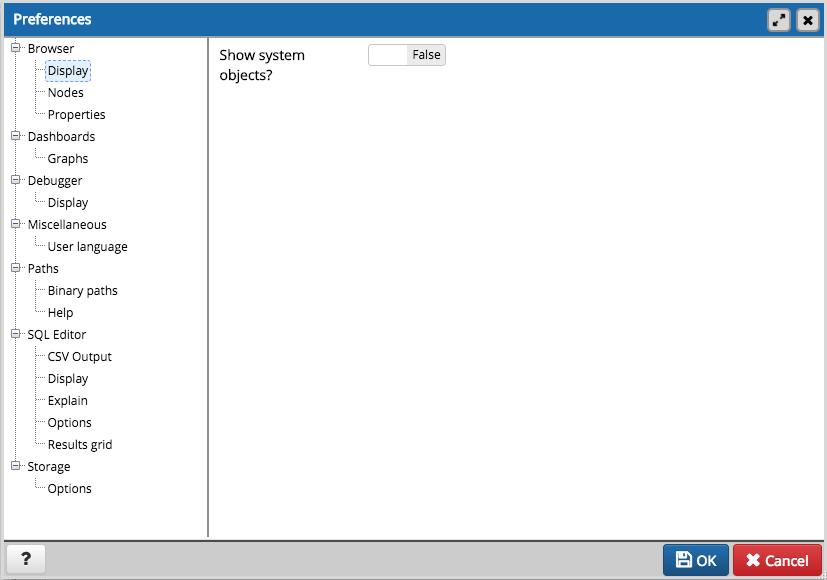
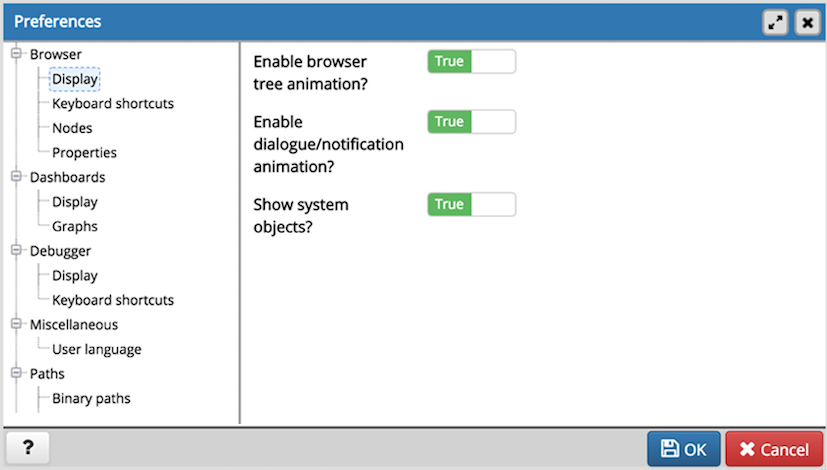
Add the ability to enable/disable UI animations. Fixes #1978

Changed region(s): [[0.0, 0.0, 1.0, 1.0], [0.5139, 0.3872, 0.6046, 0.4766], [0.5139, 0.2085, 0.6046, 0.2979]]

diff --git a/web/regression/javascript/browser/modify_animation_spec.js b/web/regression/javascript/browser/modify_animation_spec.js
@@ -1,0 +1,94 @@
+/////////////////////////////////////////////////////////////
+//
+// pgAdmin 4 - PostgreSQL Tools
+//
+// Copyright (C) 2013 - 2018, The pgAdmin Development Team
+// This software is released under the PostgreSQL Licence
+//
+//////////////////////////////////////////////////////////////
+
+import $ from 'jquery'
+import modifyAnimation from 'sources/modify_animation'
+
+
+describe('modifyAnimation', function () {
+  let pgBrowser;
+  let dummyElement;
+
+  beforeEach(() => {
+    pgBrowser = jasmine.createSpyObj('pgBrowser', ['get_preference', 'tree'])
+    pgBrowser.tree = jasmine.createSpyObj('tree', ['options']);
+    pgBrowser.tree.options.and.returnValue({
+          show: {},
+          hide: {},
+          view: {},
+    });
+    dummyElement = document.createElement('link');
+    spyOn($.fn, 'find').and.returnValue($(dummyElement));
+    spyOn($.fn, 'removeAttr');
+    spyOn($.fn, 'attr');
+  });
+
+  describe('When browser tree animation is disabled', () => {
+    beforeEach(() => {
+      pgBrowser.get_preference.and.returnValue({value: false});
+      modifyAnimation.modify_acitree_animation(pgBrowser);
+    });
+    it('tree options to animate should be disabled', function() {
+      expect(pgBrowser.get_preference).toHaveBeenCalled();
+      expect(pgBrowser.tree.options).toHaveBeenCalledTimes(4);
+      expect(pgBrowser.tree.options).toHaveBeenCalledWith({
+        animateRoot: false,
+        unanimated: true,
+        show: {duration: 0},
+        hide: {duration: 0},
+        view: {duration: 0},
+      });
+    });
+  });
+
+  describe('When browser tree animation is enabled', () => {
+    beforeEach(() => {
+      pgBrowser.get_preference.and.returnValue({value: true});
+      modifyAnimation.modify_acitree_animation(pgBrowser);
+    });
+    it('tree options to animate should be enabled', function() {
+      expect(pgBrowser.get_preference).toHaveBeenCalled();
+      expect(pgBrowser.tree.options).toHaveBeenCalledTimes(4);
+      expect(pgBrowser.tree.options).toHaveBeenCalledWith({
+        animateRoot: true,
+        unanimated: false,
+        show: {duration: 75},
+        hide: {duration: 75},
+        view: {duration: 75},
+      });
+    });
+  });
+
+  describe('When alertify animation is disabled', () => {
+    beforeEach(() => {
+      pgBrowser.get_preference.and.returnValue({value: false});
+      modifyAnimation.modify_alertify_animation(pgBrowser);
+
+    });
+    it('alertify disalogue/notification animation should be disabled', function() {
+      expect(pgBrowser.get_preference).toHaveBeenCalled();
+      expect($.fn.find).toHaveBeenCalled();
+      expect($.fn.removeAttr).toHaveBeenCalledWith('disabled', 'disabled');
+    });
+  });
+
+  describe('When alertify animation is enabled', () => {
+    beforeEach(() => {
+      pgBrowser.get_preference.and.returnValue({value: true});
+      modifyAnimation.modify_alertify_animation(pgBrowser);
+    });
+    it('alertify disalogue/notification animation should be enabled', function() {
+      expect(pgBrowser.get_preference).toHaveBeenCalled();
+      expect($.fn.find).toHaveBeenCalled();
+      expect($.fn.attr).toHaveBeenCalledWith('disabled', 'disabled');
+    });
+  });
+
+});
+

diff --git a/web/pgadmin/static/js/modify_animation.js b/web/pgadmin/static/js/modify_animation.js
@@ -1,0 +1,57 @@
+//////////////////////////////////////////////////////////////////////////
+//
+// pgAdmin 4 - PostgreSQL Tools
+//
+// Copyright (C) 2013 - 2018, The pgAdmin Development Team
+// This software is released under the PostgreSQL Licence
+//
+//////////////////////////////////////////////////////////////////////////
+
+import $ from 'jquery';
+import _ from 'underscore';
+
+function modify_acitree_animation(pgBrowser, tree) {
+  if (_.isUndefined(tree)) {
+    tree = pgBrowser.tree;
+  }
+  var enable_acitree_animation = pgBrowser.get_preference('browser',
+    'enable_acitree_animation').value;
+  if(enable_acitree_animation == true) {
+    tree.options({
+      animateRoot: true,
+      unanimated: false,
+      show: _.extend(tree.options().show, {duration: 75}),
+      hide: _.extend(tree.options().hide, {duration: 75}),
+      view: _.extend(tree.options().view, {duration: 75}),
+    });
+  } else {
+    tree.options({
+      animateRoot: false,
+      unanimated: true,
+      show: _.extend(tree.options().show, {duration: 0}),
+      hide: _.extend(tree.options().hide, {duration: 0}),
+      view: _.extend(tree.options().view, {duration: 0}),
+    });
+  }
+}
+
+function modify_alertify_animation(pgBrowser) {
+  var enable_alertify_animation = pgBrowser.get_preference('browser',
+    'enable_alertify_animation').value;
+  if(enable_alertify_animation == true) {
+    $(document).find('link#alertify-no-animation').attr('disabled', 'disabled');
+    _.each(document.getElementsByTagName('iframe'), function(frame){
+      $(frame.contentDocument).find('link#alertify-no-animation').attr('disabled', 'disabled');
+    });
+  } else {
+    $(document).find('link#alertify-no-animation').removeAttr('disabled', 'disabled');
+    _.each(document.getElementsByTagName('iframe'), function(frame){
+      $(frame.contentDocument).find('link#alertify-no-animation').removeAttr('disabled', 'disabled');
+    });
+  }
+}
+
+module.exports = {
+  modify_acitree_animation : modify_acitree_animation,
+  modify_alertify_animation: modify_alertify_animation,
+};

diff --git a/web/pgadmin/browser/static/js/browser.js b/web/pgadmin/browser/static/js/browser.js
@@ -1,7 +1,7 @@
 define('pgadmin.browser', [
   'sources/gettext', 'sources/url_for', 'require', 'jquery', 'underscore', 'underscore.string',
   'bootstrap', 'sources/pgadmin', 'pgadmin.alertifyjs', 'bundled_codemirror',
-  'sources/check_node_visibility', 'pgadmin.browser.utils', 'wcdocker',
+  'sources/check_node_visibility', 'sources/modify_animation', 'pgadmin.browser.utils', 'wcdocker',
   'jquery.contextmenu', 'jquery.aciplugin', 'jquery.acitree',
   'pgadmin.browser.messages',
   'pgadmin.browser.menu', 'pgadmin.browser.panel',
@@ -11,7 +11,7 @@ define('pgadmin.browser', [
   'pgadmin.browser.keyboard',
 ], function(
   gettext, url_for, require, $, _, S, Bootstrap, pgAdmin, Alertify,
-  codemirror, checkNodeVisibility
+  codemirror, checkNodeVisibility, modifyAnimation
 ) {
   window.jQuery = window.$ = $;
   // Some scripts do export their object in the window only.
@@ -81,6 +81,8 @@ define('pgadmin.browser', [
         view: {
           duration: 75,
         },
+        animateRoot: true,
+        unanimated: false,
       });
 
       b.tree = $('#tree').aciTree('api');
@@ -686,6 +688,8 @@ define('pgadmin.browser', [
         success: function(res) {
           self.preferences_cache = res;
           pgBrowser.keyboardNavigation.init();
+          modifyAnimation.modify_acitree_animation(self);
+          modifyAnimation.modify_alertify_animation(self);
         },
         error: function(xhr) {
           try {
@@ -1951,7 +1955,6 @@ define('pgadmin.browser', [
       brace_matching: pgBrowser.utils.braceMatching,
       indent_with_tabs: pgBrowser.utils.is_indent_with_tabs,
     },
-
   });
 
     /* Remove paste event mapping from CodeMirror's emacsy KeyMap binding

diff --git a/web/pgadmin/tools/sqleditor/static/js/sqleditor.js b/web/pgadmin/tools/sqleditor/static/js/sqleditor.js
@@ -20,6 +20,7 @@ define('tools.querytool', [
   'sources/keyboard_shortcuts',
   'sources/sqleditor/query_tool_actions',
   'pgadmin.datagrid',
+  'sources/modify_animation',
   'sources/sqleditor/calculate_query_run_time',
   'sources/sqleditor/call_render_after_poll',
   'sources/../bundle/slickgrid',
@@ -34,7 +35,7 @@ define('tools.querytool', [
   pgExplain, GridSelector, ActiveCellCapture, clipboard, copyData, RangeSelectionHelper, handleQueryOutputKeyboardEvent,
   XCellSelectionModel, setStagedRows, SqlEditorUtils, ExecuteQuery, transaction,
   HistoryBundle, queryHistory, React, ReactDOM,
-  keyboardShortcuts, queryToolActions, Datagrid,
+  keyboardShortcuts, queryToolActions, Datagrid, modifyAnimation,
   calculateQueryRunTime, callRenderAfterPoll) {
   /* Return back, this has been called more than once */
   if (pgAdmin.SqlEditor)
@@ -4292,6 +4293,8 @@ define('tools.querytool', [
   pgAdmin.SqlEditor = {
     // This function is used to create and return the object of grid controller.
     create: function(container) {
+      var browser = (!_.isNull(window.opener)) ? window.opener.pgAdmin.Browser:window.parent.pgAdmin.Browser;
+      modifyAnimation.modify_alertify_animation(browser);
       return new SqlEditorController(container);
     },
     jquery: $,

diff --git a/web/pgadmin/static/css/alertify.noanimation.css b/web/pgadmin/static/css/alertify.noanimation.css
@@ -1,0 +1,41 @@
+.alertify .ajs-dimmer,
+.alertify .ajs-modal,
+.alertify-notifier,
+.alertify-notifier .ajs-message.ajs-visible,
+.alertify-notifier .ajs-message,
+.alertify-notifier.ajs-center .ajs-message.ajs-visible,
+.alertify-notifier.ajs-center .ajs-message
+{
+  -moz-transition: none;
+  -webkit-transition: none;
+  -o-transition: none;
+  transition: none;
+  -webkit-transform: none;
+  transform: none;
+}
+
+.alertify.ajs-zoom.ajs-in:not(.ajs-hidden) .ajs-dialog {
+  -webkit-animation-name: ajs-zoomIn;
+  animation-name: ajs-zoomIn;
+}
+.alertify.ajs-zoom.ajs-out.ajs-hidden .ajs-dialog {
+  -webkit-animation-name: ajs-zoomOut;
+  animation-name: ajs-zoomOut;
+}
+
+@-webkit-keyframes ajs-zoomIn {
+  -webkit-transform: none;
+  transform: none;
+}
+@keyframes ajs-zoomIn {
+  -webkit-transform: none;
+  transform: none;
+}
+@-webkit-keyframes ajs-zoomOut {
+  -webkit-transform: none;
+  transform: none;
+}
+@keyframes ajs-zoomeOut {
+  -webkit-transform: none;
+  transform: none;
+}

diff --git a/web/pgadmin/preferences/static/js/preferences.js b/web/pgadmin/preferences/static/js/preferences.js
@@ -1,9 +1,10 @@
 define('pgadmin.preferences', [
   'sources/gettext', 'sources/url_for', 'jquery', 'underscore', 'backbone',
   'pgadmin.alertifyjs', 'sources/pgadmin', 'pgadmin.backform',
-  'pgadmin.browser',
+  'pgadmin.browser', 'sources/modify_animation',
 ], function(
-  gettext, url_for, $, _, Backbone, Alertify, pgAdmin, Backform, pgBrowser
+  gettext, url_for, $, _, Backbone, Alertify, pgAdmin, Backform, pgBrowser,
+  modifyAnimation
 ) {
   // This defines the Preference/Options Dialog for pgAdmin IV.
 
@@ -379,7 +380,14 @@ define('pgadmin.preferences', [
               ajax: {
                 url: url_for('preferences.index'),
               },
+              animateRoot: true,
+              unanimated: false,
+              show: {duration: 75},
+              hide: {duration: 75},
+              view: {duration: 75},
             });
+
+            modifyAnimation.modify_acitree_animation(pgBrowser, jTree.aciTree('api'));
 
             this.show();
           },

diff --git a/web/pgadmin/templates/base.html b/web/pgadmin/templates/base.html
@@ -23,6 +23,7 @@
     <link type="text/css" rel="stylesheet" href="{{ url_for('browser.browser_css')}}"/>
     <link type="text/css" rel="stylesheet" href="{{ url_for('static', filename='js/generated/style.css')}}"/>
     <link type="text/css" rel="stylesheet" href="{{ url_for('static', filename='js/generated/pgadmin.css')}}"/>
+    <link type="text/css" rel="stylesheet" href="{{ url_for('static', filename='css/alertify.noanimation.css')}}" id="alertify-no-animation"/>
 
      <!--View specified stylesheets-->
     {% block css_link %}{% endblock %}

diff --git a/web/pgadmin/browser/__init__.py b/web/pgadmin/browser/__init__.py
@@ -216,6 +216,19 @@ class BrowserModule(PgAdminModule):
             gettext("Show system objects?"), 'boolean', False,
             category_label=gettext('Display')
         )
+
+        self.preference.register(
+            'display', 'enable_acitree_animation',
+            gettext("Enable browser tree animation?"), 'boolean', True,
+            category_label=gettext('Display')
+        )
+
+        self.preference.register(
+            'display', 'enable_alertify_animation',
+            gettext("Enable dialogue/notification animation?"), 'boolean',
+            True, category_label=gettext('Display')
+        )
+
         self.table_row_count_threshold = self.preference.register(
             'properties', 'table_row_count_threshold',
             gettext("Count rows if estimated less than"), 'integer', 2000,

diff --git a/docs/en_US/release_notes_3_0.rst b/docs/en_US/release_notes_3_0.rst
@@ -11,6 +11,7 @@ Features
 ********
 
 | `Feature #1305 <https://redmine.postgresql.org/issues/1305>`_ - Enable building of the runtime from the top level Makefile
+| `Feature #1978 <https://redmine.postgresql.org/issues/1978>`_ - Add the ability to enable/disable UI animations
 | `Feature #2895 <https://redmine.postgresql.org/issues/2895>`_ - Add keyboard navigation options for the main browser windows
 | `Feature #2896 <https://redmine.postgresql.org/issues/2896>`_ - Add keyboard navigation in Query tool module via Tab/Shift-Tab key
 | `Feature #2897 <https://redmine.postgresql.org/issues/2897>`_ - Support keyboard navigation in the debugger
@@ -112,3 +113,4 @@ Bug fixes
 | `Bug #3200 <https://redmine.postgresql.org/issues/3200>`_ - Ensure the host parameter is correctly pickup up from the service file
 | `Bug #3219 <https://redmine.postgresql.org/issues/3219>`_ - Update required ChromeDriver version for current versions of Chrome
 | `Bug #3226 <https://redmine.postgresql.org/issues/3226>`_ - Move the field error indicators in front of the affected fields so they don't obscure spinners or drop downs etc.
+| `Bug #3244 <https://redmine.postgresql.org/issues/3244>`_ - Show more granular timing info in the query tool history panel

diff --git a/docs/en_US/preferences.rst b/docs/en_US/preferences.rst
@@ -18,7 +18,11 @@ Use preferences found in the *Browser* node of the tree control to personalize y
 
 Use the fields on the *Display* panel to specify general display preferences:
 
-* When the *Show system objects* switch is set to *True*, the client will display system objects such as system schemas (for example, *pg_temp*) or system columns (for example,  *xmin* or *ctid*) in the tree control.
+* When the *Show system objects?* switch is set to *True*, the client will display system objects such as system schemas (for example, *pg_temp*) or system columns (for example,  *xmin* or *ctid*) in the tree control.
+
+* When the *Enable browser tree animation?* switch is set to *True*, the client will display the animated tree control otherwise it will be unanimated.
+
+* When the *Enable dialogue/notification animation?* switch is set to *True*, the client will display the animated dialogues/notifications otherwise it will be unanimated.
 
 Use the fields on the *Keyboard shortcuts* panel to configure shortcuts for the main window navigation:
 
